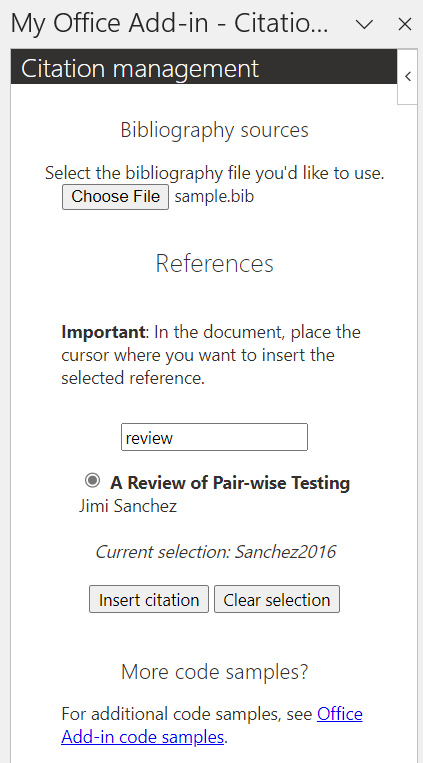
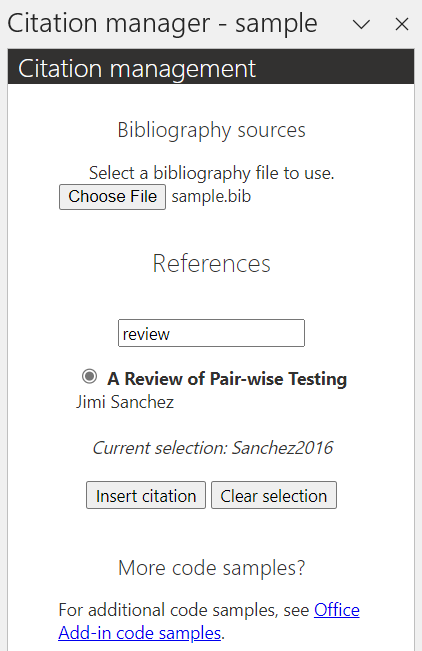
Update screenshot

diff --git a/docs/word/citation-management.md b/docs/word/citation-management.md
@@ -1,7 +1,7 @@
 ---
 title: 'Sample: Manage citations through your Word add-in'
 description: Learn how to create an add-in that manages citations in a Word document.
-ms.date: 11/15/2023
+ms.date: 11/28/2023
 ms.topic: sample
 ms.localizationpriority: medium
 ---
